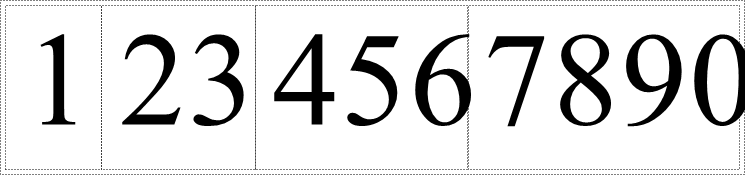
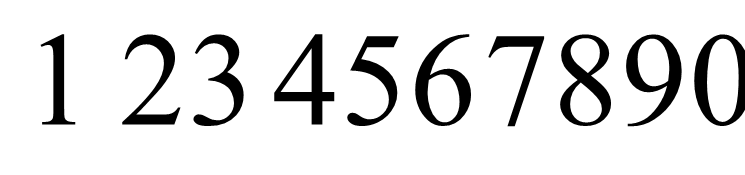
Began adding in glyph paths

Changed region(s): [[0.0, 0.6571, 1.0, 1.0], [0.0, 0.0, 1.0, 0.2571]]

diff --git a/MathematicsTypesetting.Fonts/Properties/AssemblyInfo.cs b/MathematicsTypesetting.Fonts/Properties/AssemblyInfo.cs
@@ -1,0 +1,36 @@
+using System.Reflection;
+using System.Runtime.CompilerServices;
+using System.Runtime.InteropServices;
+
+// General Information about an assembly is controlled through the following 
+// set of attributes. Change these attribute values to modify the information
+// associated with an assembly.
+[assembly: AssemblyTitle("MathematicsTypesetting.Fonts")]
+[assembly: AssemblyDescription("")]
+[assembly: AssemblyConfiguration("")]
+[assembly: AssemblyCompany("")]
+[assembly: AssemblyProduct("MathematicsTypesetting.Fonts")]
+[assembly: AssemblyCopyright("Copyright ©  2019")]
+[assembly: AssemblyTrademark("")]
+[assembly: AssemblyCulture("")]
+
+// Setting ComVisible to false makes the types in this assembly not visible 
+// to COM components.  If you need to access a type in this assembly from 
+// COM, set the ComVisible attribute to true on that type.
+[assembly: ComVisible(false)]
+
+// The following GUID is for the ID of the typelib if this project is exposed to COM
+[assembly: Guid("263d9ae9-4831-4b0b-b48b-e4efb2b2a9e1")]
+
+// Version information for an assembly consists of the following four values:
+//
+//      Major Version
+//      Minor Version 
+//      Build Number
+//      Revision
+//
+// You can specify all the values or you can default the Build and Revision Numbers 
+// by using the '*' as shown below:
+// [assembly: AssemblyVersion("1.0.*")]
+[assembly: AssemblyVersion("1.0.0.0")]
+[assembly: AssemblyFileVersion("1.0.0.0")]

diff --git a/MathematicsTypesetting/Element.cs b/MathematicsTypesetting/Element.cs
@@ -36,7 +36,7 @@
 
             FontStyle = new FontStyle();
 
-            DrawConstructionLines = true;
+            DrawConstructionLines = false;
         }
 
         public Length TopWidth { get { return OuterMargin.Top + Border.Width + InnerMargin.Top; } }
